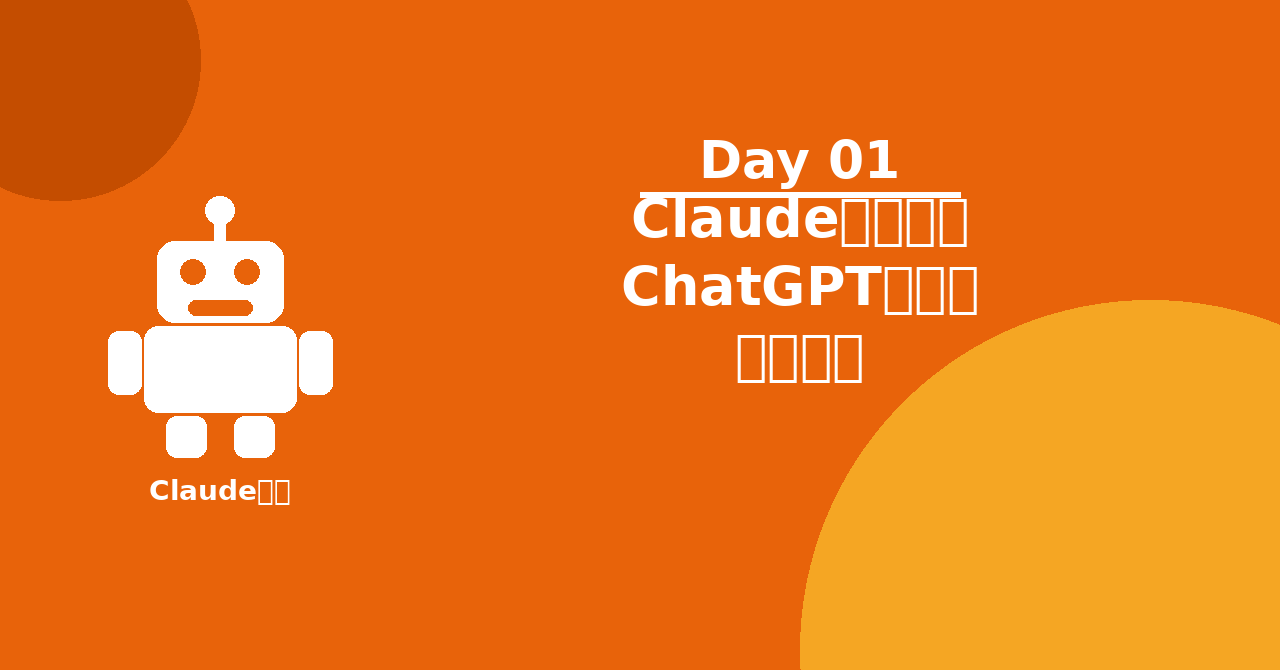
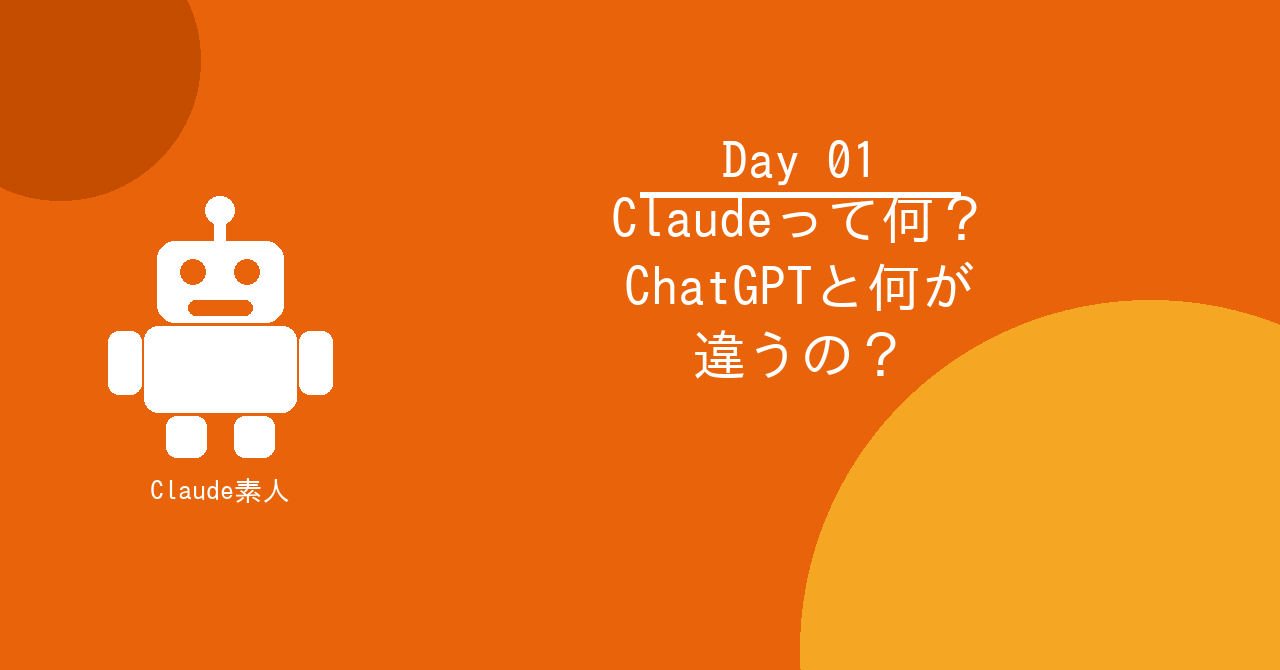
Fix Japanese font in thumbnail generator, regenerate day01
https://claude.ai/code/session_012q1wS3rQjqfFzwaFUiuW9k

Changed region(s): [[0.4688, 0.209, 0.7812, 0.597], [0.0938, 0.7164, 0.25, 0.7761]]

diff --git a/generate_thumbnail.py b/generate_thumbnail.py
@@ -147,8 +147,13 @@ def _get_font(size: int, bold: bool = False):
         "/System/Library/Fonts/ヒラギノ角ゴシック W6.ttc",
         "/System/Library/Fonts/ヒラギノ角ゴシック W3.ttc",
         "/System/Library/Fonts/Hiragino Sans GB.ttc",
-        # Linux
+        # Linux (日本語フォント)
+        "/usr/share/fonts/opentype/ipafont-gothic/ipag.ttf",
+        "/usr/share/fonts/truetype/fonts-japanese-gothic.ttf",
+        "/usr/share/fonts/opentype/ipafont-gothic/ipagp.ttf",
         "/usr/share/fonts/opentype/noto/NotoSansCJK-Bold.ttc",
+        "/usr/share/fonts/truetype/noto/NotoSansCJK-Bold.ttc",
+        # Linux (フォールバック)
         "/usr/share/fonts/truetype/dejavu/DejaVuSans-Bold.ttf",
         "/usr/share/fonts/truetype/dejavu/DejaVuSans.ttf",
     ]